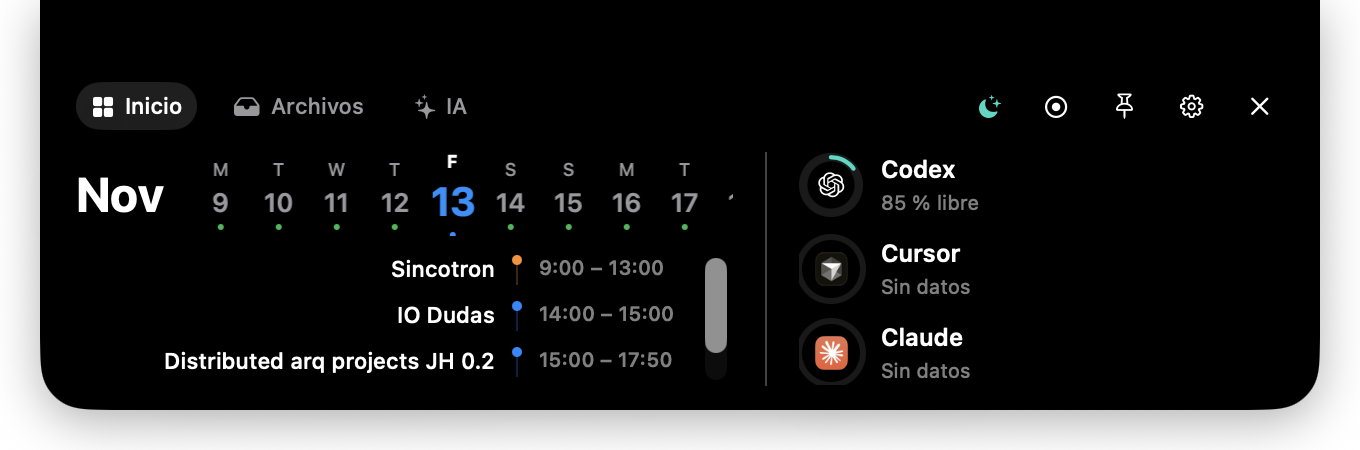
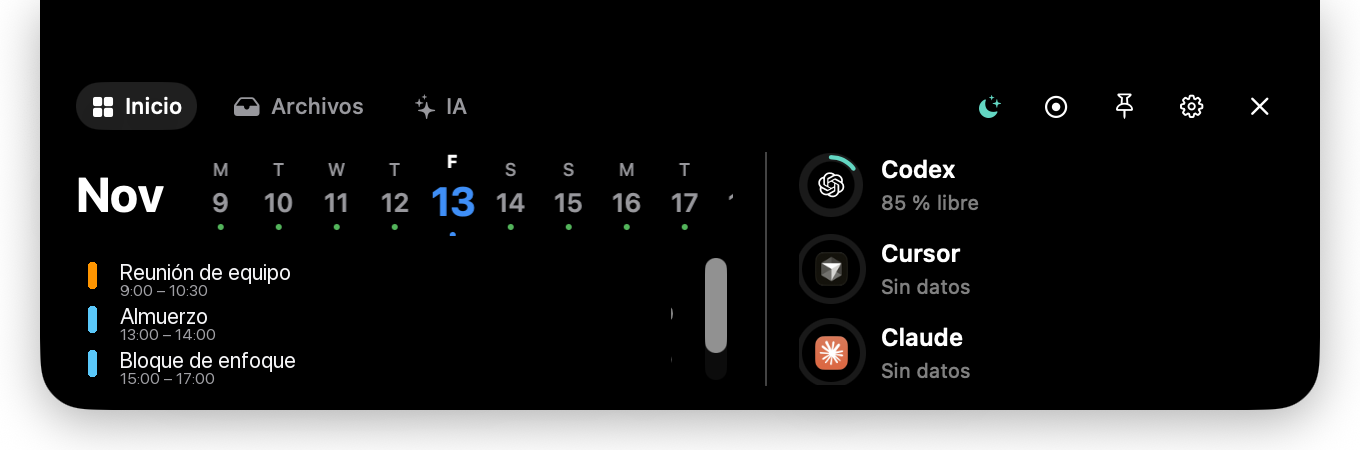
Show Isla turntable mark when minimizing; scrub README calendar (0.8.73).
Set a custom miniwindowImage for Tocadiscos and replace personal calendar
events in the notch README capture with generic placeholders.

diff --git a/Sources/Isla/Media/RecordPlayerWindow.swift b/Sources/Isla/Media/RecordPlayerWindow.swift
@@ -127,6 +127,8 @@ private final class RecordPlayerDesktopPanel: NSPanel {
             backing: .buffered, defer: false
         )
         window.title = "Tocadiscos · Isla"
+        window.miniwindowTitle = "Tocadiscos · Isla"
+        window.miniwindowImage = Self.turntableMiniwindowImage()
         window.isReleasedWhenClosed = false
         window.contentMinSize = NSSize(width: 560, height: 480)
         window.collectionBehavior = [.fullScreenPrimary, .managed]
@@ -149,7 +151,60 @@ private final class RecordPlayerDesktopPanel: NSPanel {
         return window
     }
 
+    /// Dock miniwindow mark: vinyl + Isla cyan→violet island, not a live window snapshot.
+    private static func turntableMiniwindowImage() -> NSImage {
+        let size = NSSize(width: 128, height: 128)
+        return NSImage(size: size, flipped: false) { rect in
+            let inset = rect.insetBy(dx: 6, dy: 6)
+            NSColor(srgbRed: 0.06, green: 0.07, blue: 0.09, alpha: 1).setFill()
+            NSBezierPath(roundedRect: inset, xRadius: 28, yRadius: 28).fill()
+
+            let disc = NSBezierPath(ovalIn: inset.insetBy(dx: 14, dy: 14))
+            NSColor(srgbRed: 0.08, green: 0.09, blue: 0.11, alpha: 1).setFill()
+            disc.fill()
+            NSColor(srgbRed: 0.18, green: 0.19, blue: 0.22, alpha: 1).setStroke()
+            disc.lineWidth = 1.5
+            disc.stroke()
+
+            let center = CGPoint(x: inset.midX, y: inset.midY)
+            for radius in stride(from: 18.0, through: 42.0, by: 5.0) {
+                let ring = NSBezierPath(ovalIn: CGRect(x: center.x - radius, y: center.y - radius,
+                                                       width: radius * 2, height: radius * 2))
+                NSColor.white.withAlphaComponent(0.06).setStroke()
+                ring.lineWidth = 1
+                ring.stroke()
+            }
+
+            let label = CGRect(x: center.x - 18, y: center.y - 18, width: 36, height: 36)
+            let cyan = NSColor(srgbRed: 0.05, green: 0.88, blue: 0.95, alpha: 1)
+            let violet = NSColor(srgbRed: 0.66, green: 0.32, blue: 1, alpha: 1)
+            let island = NSBezierPath(roundedRect: label.insetBy(dx: 2, dy: 10), xRadius: 8, yRadius: 8)
+            NSGradient(starting: cyan, ending: violet)?.draw(in: island, angle: 0)
+            NSColor(srgbRed: 0.04, green: 0.05, blue: 0.07, alpha: 1).setFill()
+            NSBezierPath(roundedRect: label.insetBy(dx: 6, dy: 14), xRadius: 4, yRadius: 4).fill()
+            NSColor.white.setFill()
+            NSBezierPath(roundedRect: CGRect(x: center.x - 6, y: center.y - 1.5, width: 12, height: 3),
+                         xRadius: 1.5, yRadius: 1.5).fill()
+
+            let arm = NSBezierPath()
+            arm.move(to: CGPoint(x: inset.maxX - 22, y: inset.maxY - 28))
+            arm.line(to: CGPoint(x: center.x + 10, y: center.y + 6))
+            NSColor(srgbRed: 0.72, green: 0.74, blue: 0.78, alpha: 1).setStroke()
+            arm.lineWidth = 3
+            arm.lineCapStyle = .round
+            arm.stroke()
+            NSColor(srgbRed: 0.9, green: 0.25, blue: 0.28, alpha: 1).setFill()
+            NSBezierPath(ovalIn: CGRect(x: center.x + 6, y: center.y + 2, width: 7, height: 7)).fill()
+            return true
+        }
+    }
+
     func windowDidChangeOcclusionState(_ notification: Notification) { refreshVisibility() }
+    func windowWillMiniaturize(_ notification: Notification) {
+        guard let window = notification.object as? NSWindow, window === self.window else { return }
+        window.miniwindowTitle = "Tocadiscos · Isla"
+        window.miniwindowImage = Self.turntableMiniwindowImage()
+    }
     func windowDidMiniaturize(_ notification: Notification) { presentation.isVisible = false }
     func windowDidDeminiaturize(_ notification: Notification) { refreshVisibility() }
     func windowWillClose(_ notification: Notification) {

diff --git a/README.md b/README.md
@@ -98,7 +98,7 @@ Sustitución manual: sal de Isla → descarga el ZIP → reemplaza la app en Apl
 
 ## Versión actual
 
-**Isla 0.8.72** (compilación 102).
+**Isla 0.8.73** (compilación 103).
 
 Artefactos de release esperados: `Isla.zip` + `SHA256SUMS.txt`. Firma: identidad personal `Isla Personal Code Signing` (Team ID vacío; **sin notarización**). Gatekeeper puede pedir «Abrir igualmente».
 
